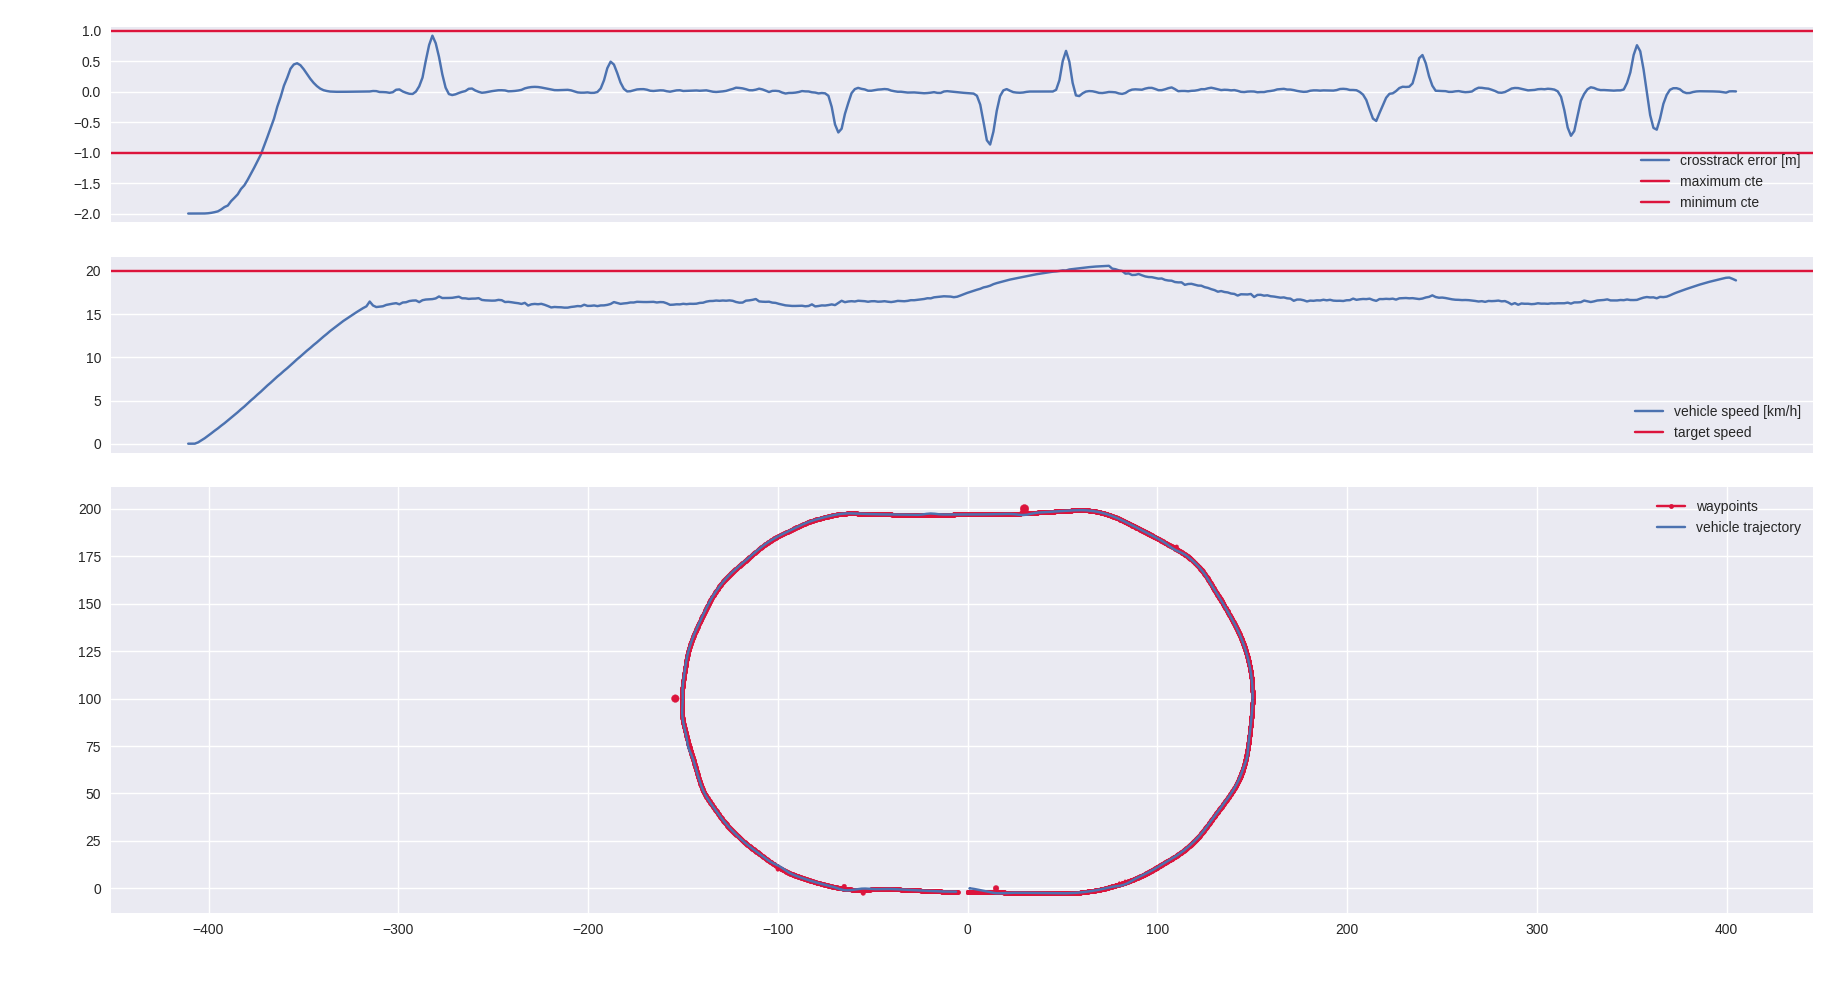
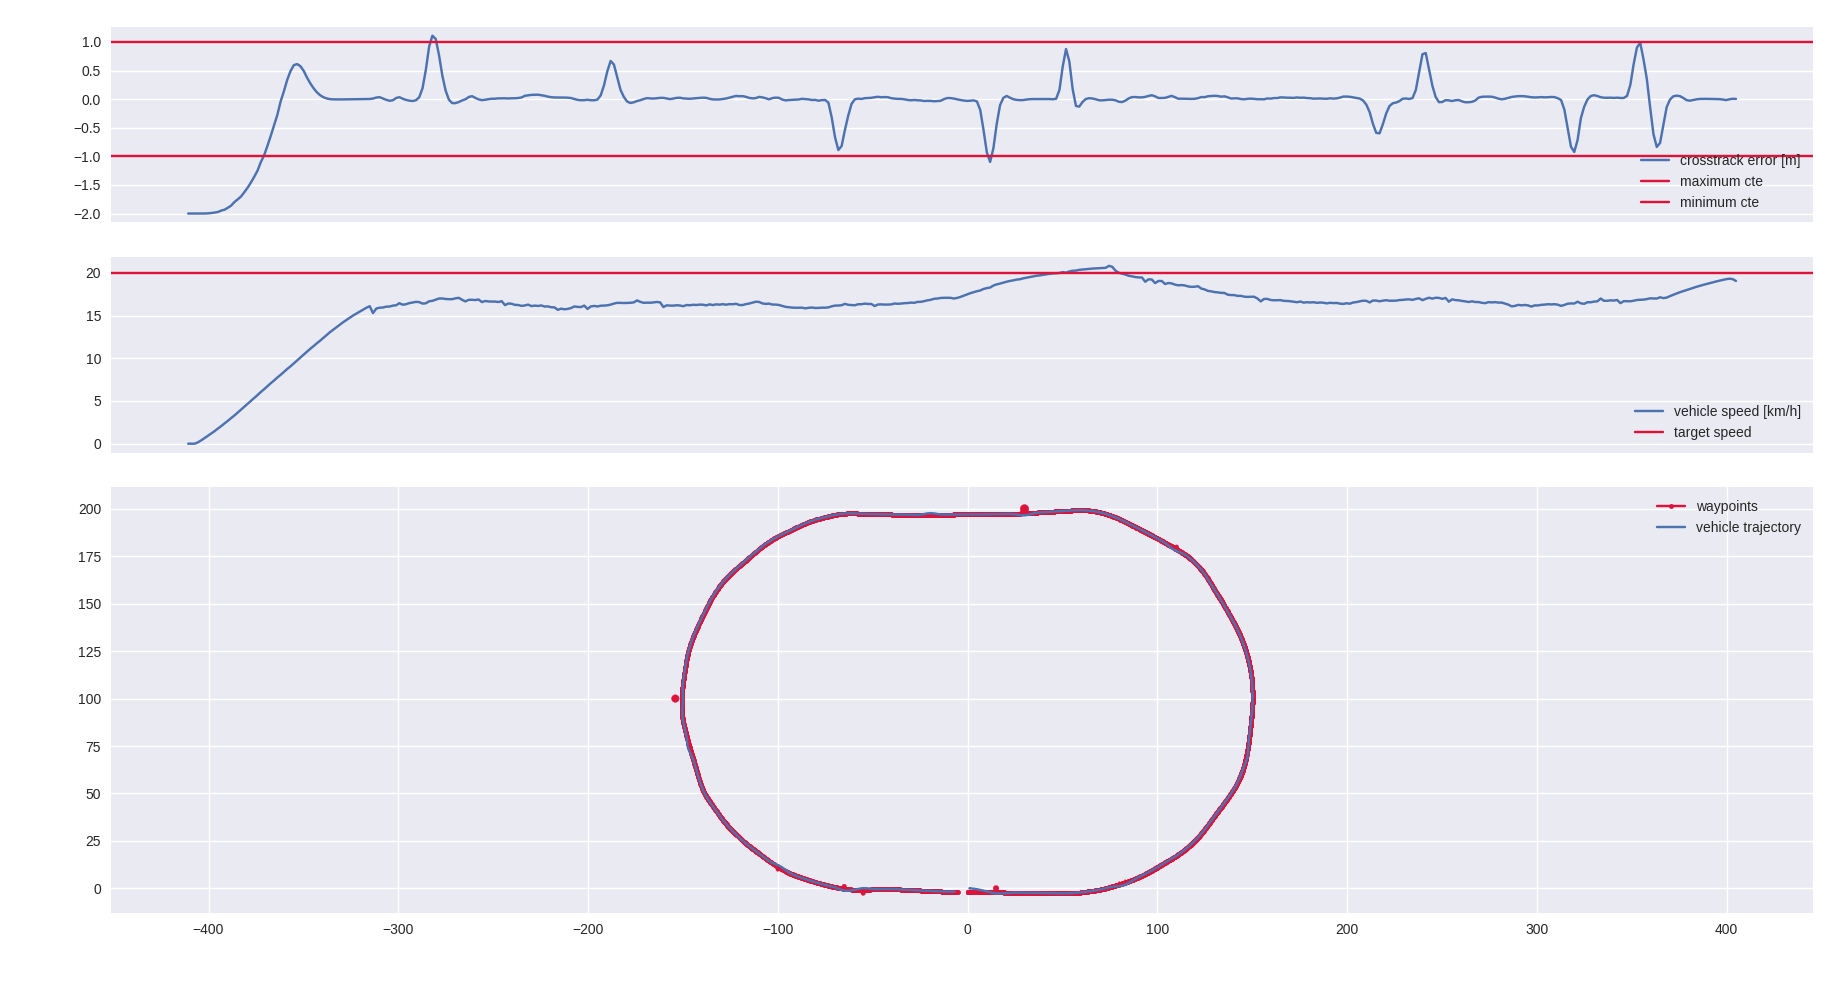
final reshoot

Changed region(s): [[0.0617, 0.0305, 0.987, 0.2138], [0.0617, 0.2749, 0.987, 0.336]]

diff --git a/src/mpc_control/src/mpc.cpp b/src/mpc_control/src/mpc.cpp
@@ -100,11 +100,13 @@ KinematicMpc::KinematicMpc(const KinematicModel &m, const MpcParameters &p,
     for (casadi_int j = 0; j < obstacles.size1(); j++) {
       // signed distance to the obstacle
       // (+ is outside the obstacle, - is inside).
-      auto d = sqrt(pow(x_dv(i) - obstacles(j, 0), 2) +
-                    pow(y_dv(i) - obstacles(j, 1), 2)) -
+      auto d = sqrt(pow(x_dv(i+1) - obstacles(j, 0), 2) +
+                    pow(y_dv(i+1) - obstacles(j, 1), 2)) -
                obstacles(j, 2);
+      
+      // proximity cost
       cost += p.obstacle_avoidance_weight *
-              log(1 + exp(m.vehicle_width + p.min_obstacle_margin - d));
+              log(1 + exp(m.vehicle_width*0.5 + p.min_obstacle_margin - d));
     }
   }
 

diff --git a/src/mpc_control/include/mpc_control/mpc.hpp b/src/mpc_control/include/mpc_control/mpc.hpp
@@ -22,7 +22,7 @@ static const char OPTIMIZED_TRAJECTORY_DICT_KEY[] = "x_optimized";
 struct KinematicModel {
   // Vehicle Kin constrains
   double wheel_base = 1.75;     // [m]
-  double vehicle_width = 0.6;   // [m]
+  double vehicle_width = 1.2;   // [m]
   double v_min = 0.0;           // [m/s]
   double v_max = 10.0;          // [m/s]
   double a_min = -3.0;          // [m/ss]
